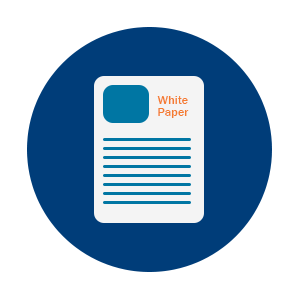
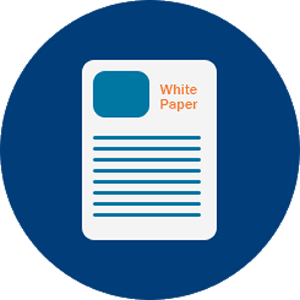
Arrumado imagem do whitepaper, headers logins em paginas em branco

diff --git a/database/index.php b/database/index.php
@@ -1,0 +1,1 @@
+<?php header('Location: http://www.kingrespectcrypto.com'); ?>

diff --git a/resources/images/index.php b/resources/images/index.php
@@ -1,0 +1,1 @@
+<?php header('Location: http://www.kingrespectcrypto.com'); ?>

diff --git a/resources/index.php b/resources/index.php
@@ -1,0 +1,1 @@
+<?php header('Location: http://www.kingrespectcrypto.com'); ?>

diff --git a/resources/video/index.php b/resources/video/index.php
@@ -1,0 +1,1 @@
+<?php header('Location: http://www.kingrespectcrypto.com'); ?>
